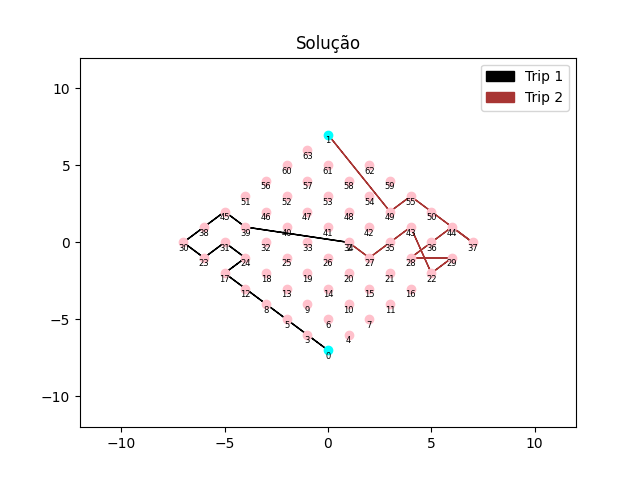
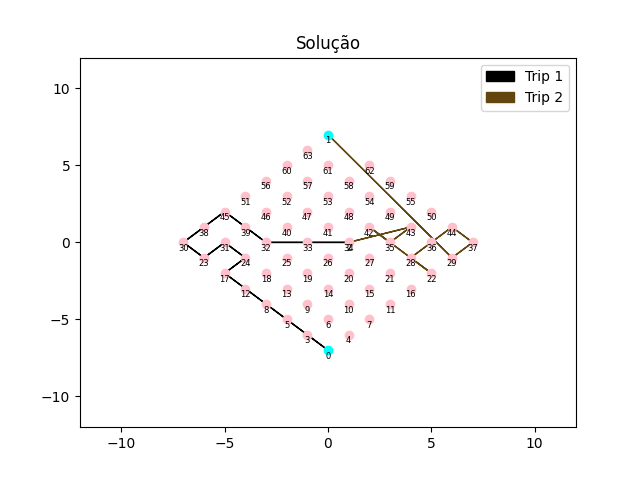
fix: correções pos entrega

diff --git a/OPHS/src/constructive.cpp b/OPHS/src/constructive.cpp
@@ -265,7 +265,7 @@ namespace Search {
 
             // calculates heuristic for candidate c being inserted between (i,kNode)
             double deltaDist = adjMatrix[i][c].dist + adjMatrix[c][kNode].dist - adjMatrix[i][kNode].dist;
-            double deltaScore = adjMatrix[i][c].score + adjMatrix[c][kNode].score - adjMatrix[i][kNode].score;
+            double deltaScore = adjMatrix[i][c].score  - adjMatrix[i][kNode].score;
             double newHeuristic = deltaDist / deltaScore;
 
             if (newHeuristic > heuristic)
@@ -273,7 +273,7 @@ namespace Search {
 
             // calculates heuristic for candidate c being inserted between (kNode,j)
             deltaDist = adjMatrix[kNode][c].dist + adjMatrix[c][j].dist - adjMatrix[kNode][j].dist;
-            deltaScore = adjMatrix[kNode][c].score + adjMatrix[c][j].score - adjMatrix[kNode][j].score;
+            deltaScore = adjMatrix[kNode][c].score - adjMatrix[kNode][j].score;
             newHeuristic = deltaDist / deltaScore;
 
             if (newHeuristic > heuristic)
